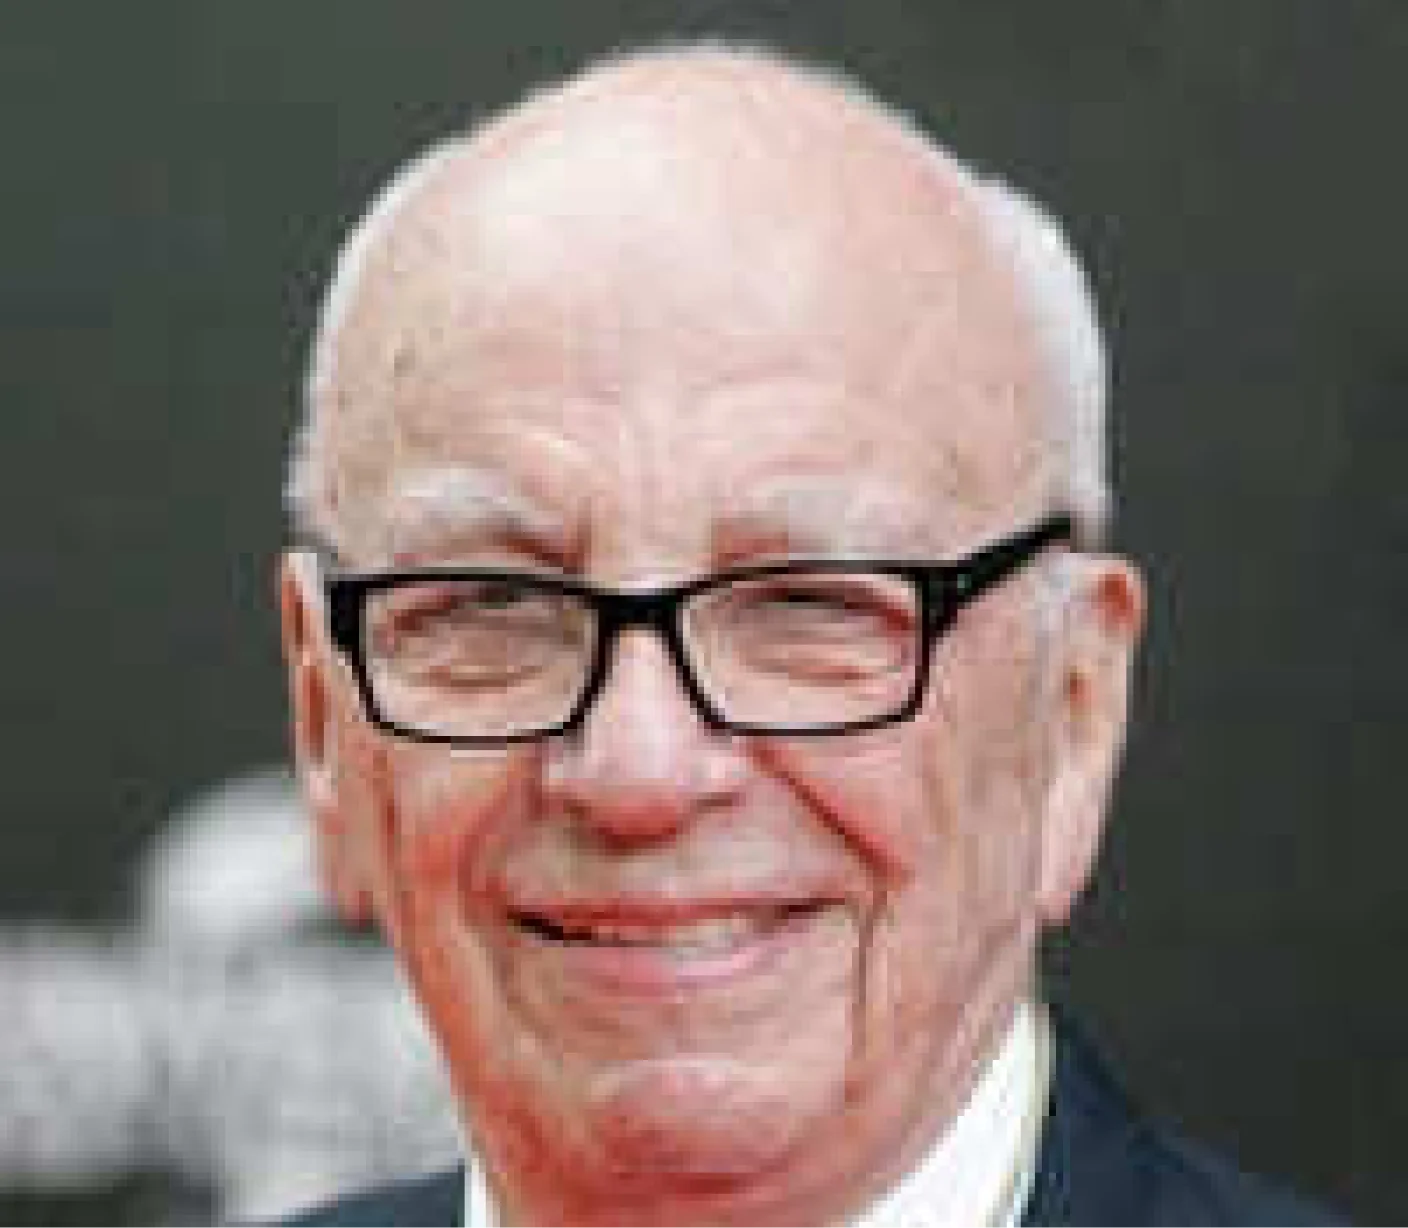
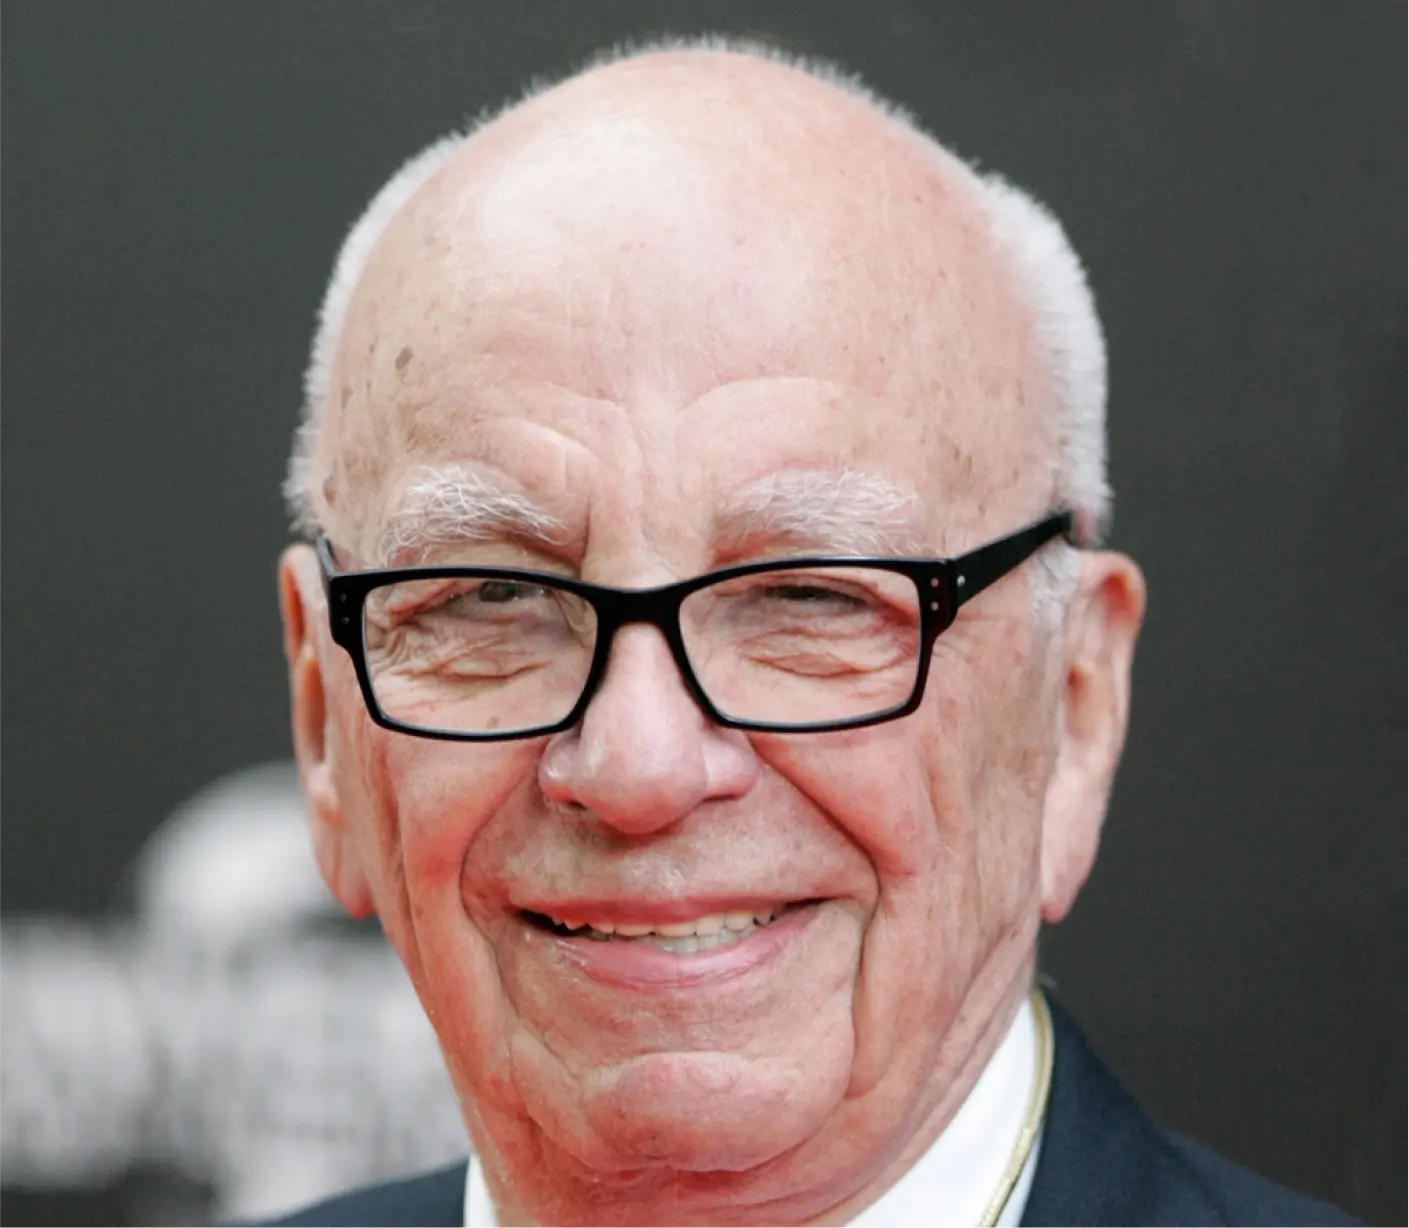
images replace

diff --git a/index.html b/index.html
@@ -976,7 +976,7 @@
                       win-win, and I’m very excited to see where it goes.
                   </div>
                   <div class="slider_box_blur implement_box_blur position-absolute"></div>
-                  <img class="w-100 advisor_img" src="./assets/images/png/billgates.png" alt="keith-rupert-murdoch" />
+                  <img class="w-100 advisor_img" src="./assets/images/webp/bill-gates.webp" alt="keith-rupert-murdoch" />
                   <div>
                     <h2 class="ff_inter fs_sm fw-bold text-white text-center lh_normal mb-1">
                       Bill Gates
@@ -1034,7 +1034,7 @@
                     </p>
                   </div>
                   <div class="slider_box_blur implement_box_blur position-absolute"></div>
-                  <img class="w-100 advisor_img" src="./assets/images/png/zaho.png" alt="zaho" />
+                  <img class="w-100 advisor_img" src="./assets/images/webp/zaho.webp" alt="zaho" />
                   <div>
                     <h2 class="ff_inter fs_sm fw-bold text-white text-center lh_normal mb-1">
                       Changpeng Zhao:
@@ -1114,34 +1114,6 @@
               </div>
             </div>
           </div>
-          <!-- DEFINE SLIDE CODE -->
-          <!-- <div id="today" class="today_counter today_slider d-md-none">
-            <div class="col-12 col-sm-6 col-md-4">
-              <h2 class="text_arapawa  text-center lh_120 ff_openSans fw-bold mb-4 mb-lg-5">
-                757$
-              </h2>
-              <p
-                class="text_arapawa opacity_70 fs_base lh_160 fw-normal ff_inter text-center mx-auto mb-0 average_paragraph">
-                Average earnings of a registered user from a deposit of $250
-              </p>
-            </div>
-            <div class="col-12 col-sm-6 col-md-4">
-              <h2 class="text_arapawa text-center lh_120 ff_openSans fw-bold mb-4 mb-lg-5">
-                128
-              </h2>
-              <p class="text_arapawa opacity_70 fs_base lh_160 fw-normal ff_inter text-center mx-auto mb-0">
-                Average Registrations per day
-              </p>
-            </div>
-            <div class="col-12 col-sm-6 col-md-4 ">
-              <h2 class="text_arapawa text-center lh_120 ff_openSans fw-bold mb-4 mb-lg-5">
-                4x
-              </h2>
-              <p class="text_arapawa opacity_70 fs_base lh_160 fw-normal ff_inter text-center mx-auto mb-0">
-                The Average Earnings Increase
-              </p>
-            </div>
-          </div> -->
           <p
             class="text-center text_arapawa ff_inter fs_sm lh_normal fw-bold mt-4 pt-5 pt-md-4 mb-md-0 register_paragraph">
             Places left to register: <span class="text_light_blue">1</span>
